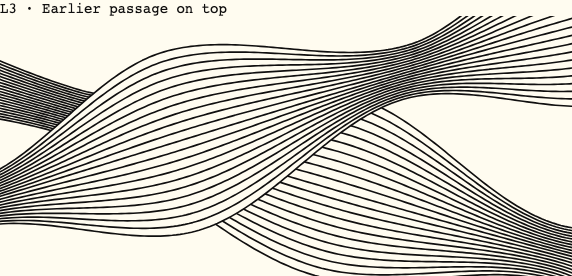
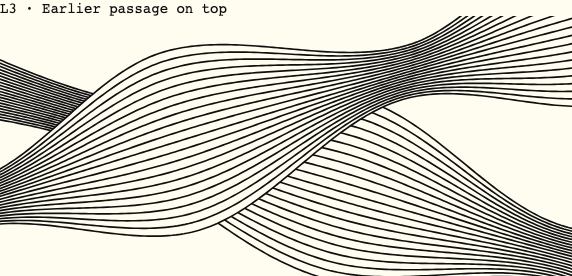
fix: smooth loop study joins and record ribbon stress coverage

Changed region(s): [[0.3566, 0.3768, 1.0, 1.0], [0.0, 0.2029, 0.1783, 0.4928]]

diff --git a/docs/reviews/open-path-ribbon-2026-09-08/study-template.html b/docs/reviews/open-path-ribbon-2026-09-08/study-template.html
@@ -5,8 +5,8 @@
         <option value="straight">A · Straight</option>
         <option value="arch">B · Arch</option>
         <option value="sCurve">B · S-curve</option>
-        <option value="corner" selected>C · Corner</option>
-        <option value="loop">Loop</option>
+        <option value="corner">C · Corner</option>
+        <option value="loop" selected>Loop</option>
         <option value="hairpin">Tight bend</option>
       </select>
     </label>

diff --git a/docs/reviews/open-path-ribbon-2026-09-08/geometry.js b/docs/reviews/open-path-ribbon-2026-09-08/geometry.js
@@ -282,7 +282,9 @@
     ),
     loop: join(
       cubic([60,180],[220,155],[440,55],[620,40],100),
-      cubic([620,40],[730,30],[740,215],[620,190],65),
+      // Collinear handles at both seams: this fixture is a smooth loop, not
+      // two hidden corners. The tight return also gets finer input sampling.
+      cubic([620,40],[740,30],[740,202],[620,190],260),
       cubic([620,190],[470,175],[200,70],[60,50],100)
     ),
     hairpin: join(

diff --git a/docs/reviews/open-path-ribbon-2026-09-08/loop-bend-evidence.py b/docs/reviews/open-path-ribbon-2026-09-08/loop-bend-evidence.py
@@ -1,0 +1,35 @@
+"""Matched probes: sampling density versus tangent continuity in the loop."""
+from pathlib import Path
+import subprocess
+from playwright.sync_api import sync_playwright
+
+HERE=Path(__file__).resolve().parent
+with sync_playwright() as p:
+    browser=p.chromium.launch()
+    page=browser.new_page(viewport={'width':1200,'height':900},device_scale_factor=1)
+    page.set_content('<body style="margin:0;background:#FFFCF0;color:#100F0F;font:14px monospace"><main id="sheet" style="padding:20px;display:grid;grid-template-columns:repeat(3,1fr);gap:16px"></main></body>')
+    baseline=subprocess.check_output(['git','show','6617aed:docs/reviews/open-path-ribbon-2026-09-08/geometry.js'],text=True)
+    page.add_script_tag(content=baseline)
+    page.evaluate('window.BeforeLoop=RibbonStudy')
+    for name in ['vendor/polygon-clipping-0.15.7.js','corner-envelope.js','masking.js','geometry.js']:
+        page.add_script_tag(content=(HERE/name).read_text())
+    summary=page.evaluate('''() => {
+      const cubic=(a,b,c,d,n)=>Array.from({length:n+1},(_,i)=>{const t=i/n,u=1-t;return [0,1].map(k=>u*u*u*a[k]+3*u*u*t*b[k]+3*u*t*t*c[k]+t*t*t*d[k]);});
+      const fixture=(scale,continuous)=>[].concat(
+        cubic([60,180],[220,155],[440,55],[620,40],100*scale),
+        cubic([620,40],continuous?[740,30]:[730,30],continuous?[740,202]:[740,215],[620,190],65*scale).slice(1),
+        cubic([620,190],[470,175],[200,70],[60,50],100*scale).slice(1));
+      const variants=[['Original',BeforeLoop.fixtures.loop],['Denser sampling only',fixture(4,false)],['Corrected loop sample',RibbonStudy.fixtures.loop]];
+      const path=p=>p.map((q,i)=>(i?'L':'M')+q.join(' ')).join(' ');
+      const summaries=[];
+      for(const width of [24,60])for(const [label,points] of variants){
+        const r=RibbonStudy.generate(points,{width,wavelength:180,variation:.75,steps:10,seed:7,relation:'related'});
+        const id='B'+(summaries.length+1);
+        document.getElementById('sheet').insertAdjacentHTML('beforeend',`<section><div>${id} · ${label} · ${width}</div><svg viewBox="555 0 190 240" style="width:100%;height:340px"><g fill="none" stroke="#100F0F" stroke-width=".6">${r.strands.map(p=>`<path d="${path(p)}"/>`).join('')}</g></svg></section>`);
+        summaries.push({id,label,width,sourcePoints:points.length});
+      }
+      return summaries;
+    }''')
+    page.locator('#sheet').screenshot(path=str(HERE/'loop-bend-probes.png'))
+    browser.close()
+print(summary)

diff --git a/docs/reviews/open-path-ribbon-2026-09-08/check-study.py b/docs/reviews/open-path-ribbon-2026-09-08/check-study.py
@@ -48,7 +48,7 @@ def run():
         assert page.locator('.ribbon-ink path').count() == 9
         page.locator('#ribbon-guide').check()
         assert page.locator('.ribbon-guide').count() == 3
-        page.select_option('#ribbon-shape','corner')
+        page.select_option('#ribbon-shape','loop')
         for id,value in [('width',24),('steps',10)]:
             page.locator('#ribbon-'+id).evaluate('(e,v)=>{e.value=v;e.dispatchEvent(new Event("input"));}',value)
         page.locator('#ribbon-guide').uncheck()

diff --git a/docs/reviews/open-path-ribbon-2026-09-08/LOOP-STATUS.md b/docs/reviews/open-path-ribbon-2026-09-08/LOOP-STATUS.md
@@ -1,0 +1,33 @@
+# Loop sample refinement and stress tests
+
+Ian accepted the corner direction and asked about unevenness near the loop's
+tight return, explicitly allowing it to remain if a fix would be disruptive.
+
+The loop fixture itself had misaligned Bezier handles. Its lower sampled joint
+turned abruptly by 4.47 degrees. A three-way probe compared the committed sample,
+denser sampling alone, and aligned tangent handles with finer return sampling.
+Denser sampling retained the crease. The aligned sample removed that contribution
+without introducing a new width treatment.
+
+Only the middle cubic's control points and sample count changed: its handles now
+align geometrically with both adjoining curves, and the tight return is sampled
+at 260 intervals instead of 65. The first and last cubics stay unchanged. The
+offset, width profile, corner union and masking algorithms are unchanged. This
+corrects the supplied example; it is not a smoothing pass applied to user paths.
+
+`loop-sample-check.cjs` failed on the old sampled joint and passes now.
+`loop-bend-evidence.py` compares against baseline 6617aed and writes
+`loop-bend-probes.png`. At width 24 the corrected return is cleaner. At width 60
+the inner boundary still has a cusp: excessive width relative to a tight bend
+remains a separate geometric limit. No claim of universally even spacing.
+
+The final bounded stress sweep is in STRESS.md: 156 configurations including
+short/duplicate-point paths, multiple corners, reversed paths, near-reversals,
+high strand counts, and both mask orders. It found no crash, invalid coordinate,
+unmasked endpoint drift, mutation or nondeterminism. Heavy zigzags took around
+1.7 seconds, and one masked near-reversal produced 254 fragments. Those are
+performance/complexity limits, not a guarantee of visual quality.
+
+Existing geometry and overlap checks and the six-fixture browser checks pass.
+The inline comparison opens on Loop. Ready for Ian's visual check; no paper or
+hardware test and no production application change.

diff --git a/docs/reviews/open-path-ribbon-2026-09-08/STRESS.md b/docs/reviews/open-path-ribbon-2026-09-08/STRESS.md
@@ -1,0 +1,13 @@
+# Ribbon stress sweep
+
+Baseline commit: `6617aed`. Final run included the working-tree loop fixture tangent/density correction. Run with `node stress-check.cjs`; the parent process enforces a fixed 240-second timeout.
+
+The sweep exercises all six study fixtures plus short, repeated-point, multi-corner zigzag, reversed, and near-180-degree paths. It uses 156 deliberately interleaved configurations spanning widths 5/24/90, wavelengths 45/180/240, seeds 0/7/43, steps 1/10/32, all three side relations, and a bounded masked subset in both passage orders. This is broad coverage without a Cartesian explosion.
+
+Each configuration checks for exceptions, input mutation, malformed or non-finite coordinates. Every unmasked strand must retain the source endpoints exactly. A sampled subset is regenerated and compared byte for byte. Masked runs may split or fully hide strands, so endpoint preservation is intentionally not asserted there. The sweep does not require globally crossing-free hairpins; that is outside the prototype's stated boundary.
+
+Final result: all 156 configurations passed in 14.0 seconds of measured generation time (15.3 seconds wall time). This covered 52 masked configurations, 15 byte-for-byte determinism reruns, and 1,445,115 generated strand points.
+
+The slowest case was the reversed zigzag at width 90, wavelength 240, seed 43, 32 steps, independent sides, mask off: 1.75 seconds. Its forward counterpart took 1.57 seconds. The largest masked result was the reversed near-180 path at width 5, wavelength 180, seed 43, 32 steps, mirrored sides, forward mask order: 254 visible fragments. This is a complexity boundary rather than a correctness failure, but it is the clearest case to watch if fragment count becomes operationally important.
+
+No crash, non-finite coordinate, endpoint, determinism, or purity failure was found. The result makes no claim that tight hairpins are globally crossing-free.

diff --git a/docs/reviews/open-path-ribbon-2026-09-08/README.md b/docs/reviews/open-path-ribbon-2026-09-08/README.md
@@ -4,6 +4,9 @@ Exploratory geometry and an interactive comparison based on Ian's A–E sketches
 This is not an installed AxiBridge effect. No application source, project state,
 hardware or running server is involved. Coordinates are study units, not mm.
 
+Latest follow-up: `LOOP-STATUS.md` records the small loop sample correction;
+`STRESS.md` records the 156-case sweep. The effect's width treatment is unchanged.
+
 ## What is being compared
 
 The source is measured by arc length. Two positive width profiles use alternating
